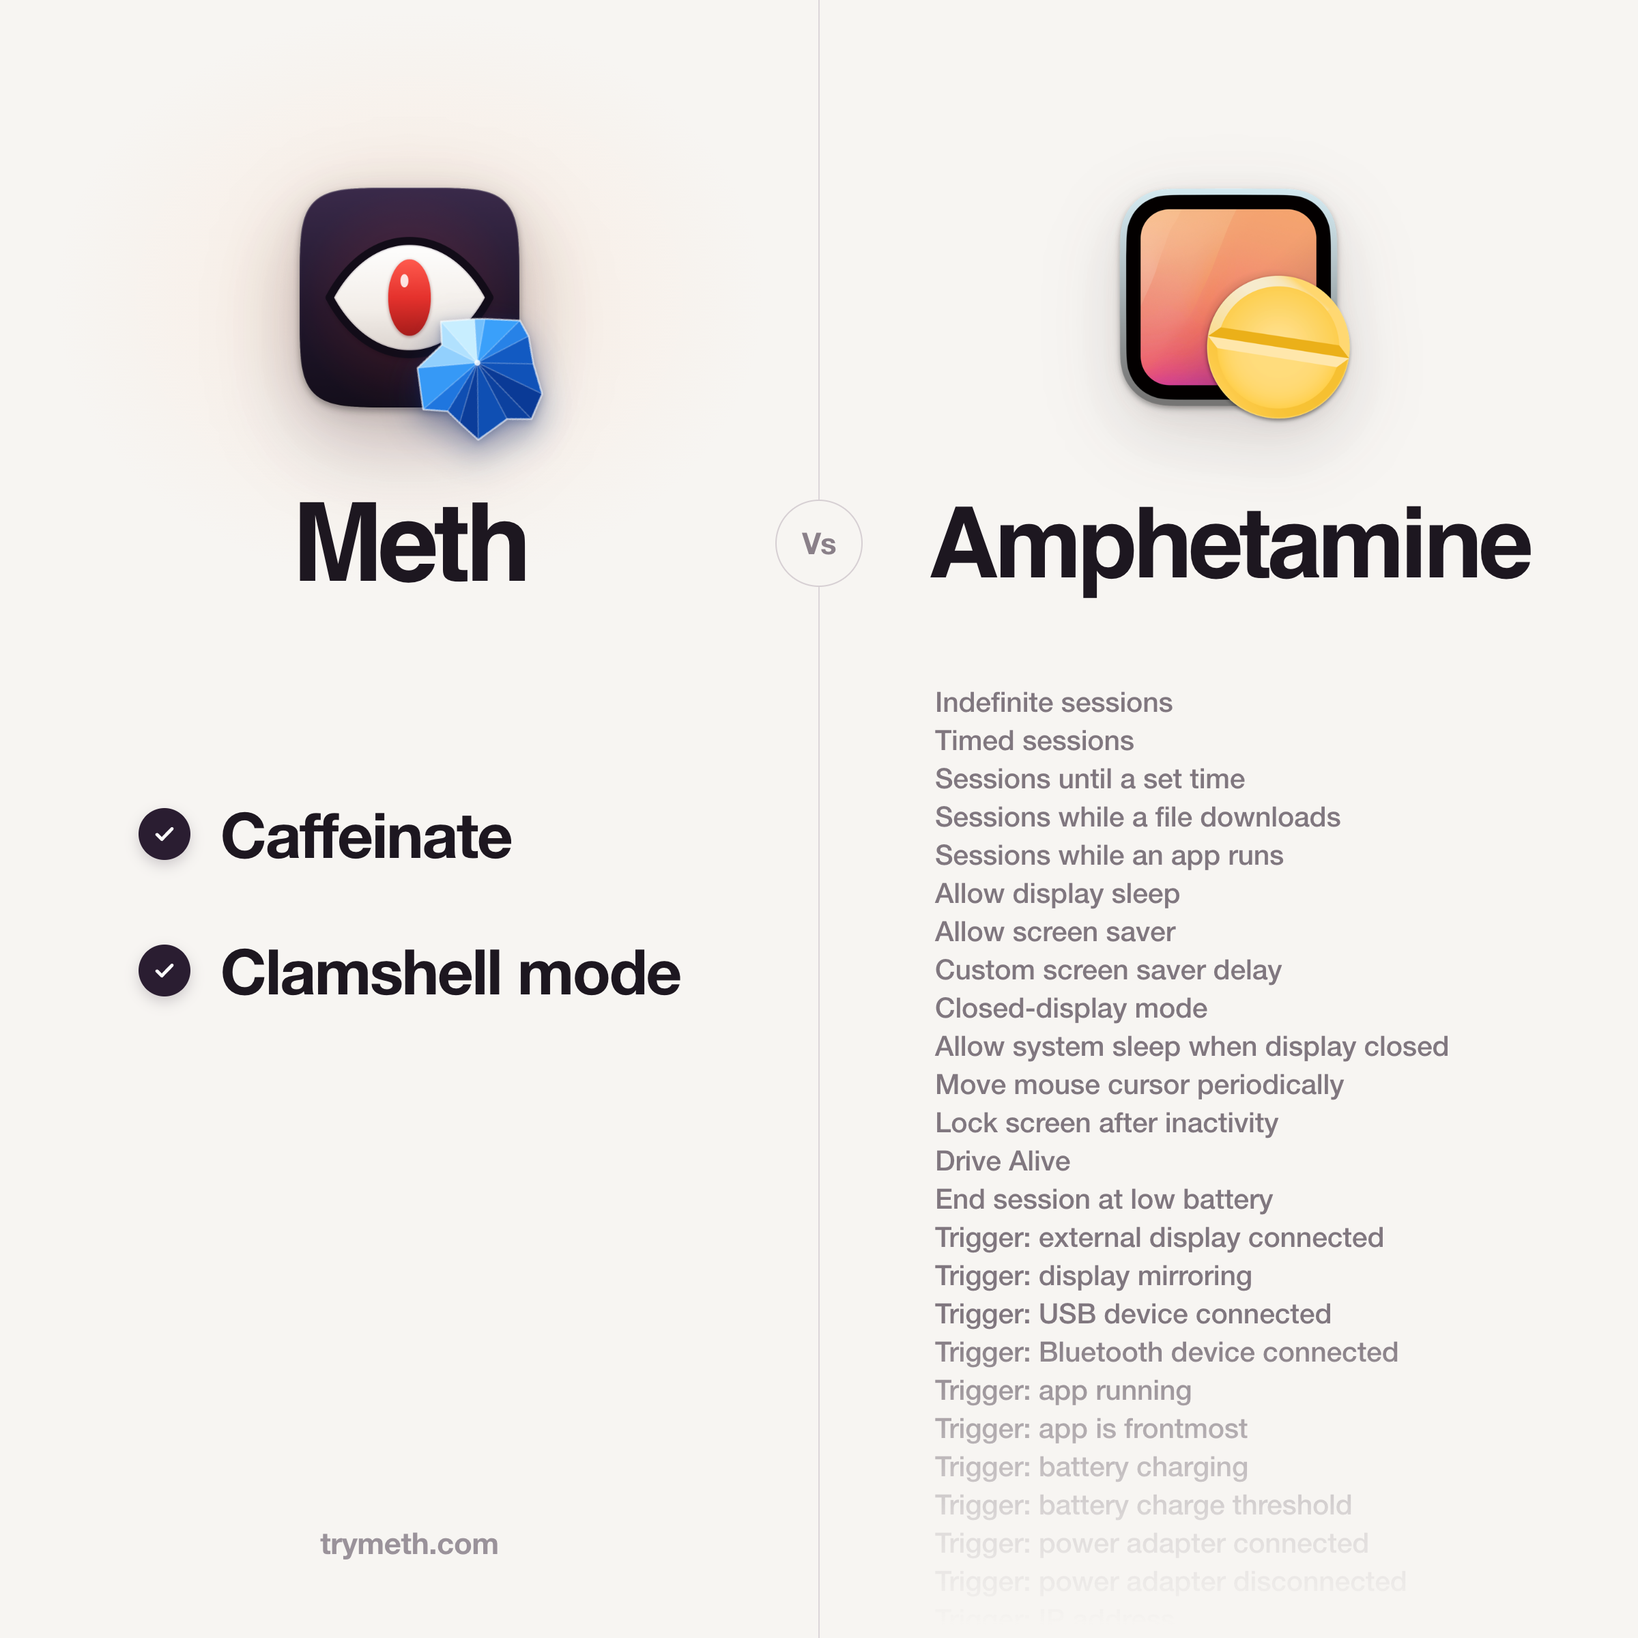
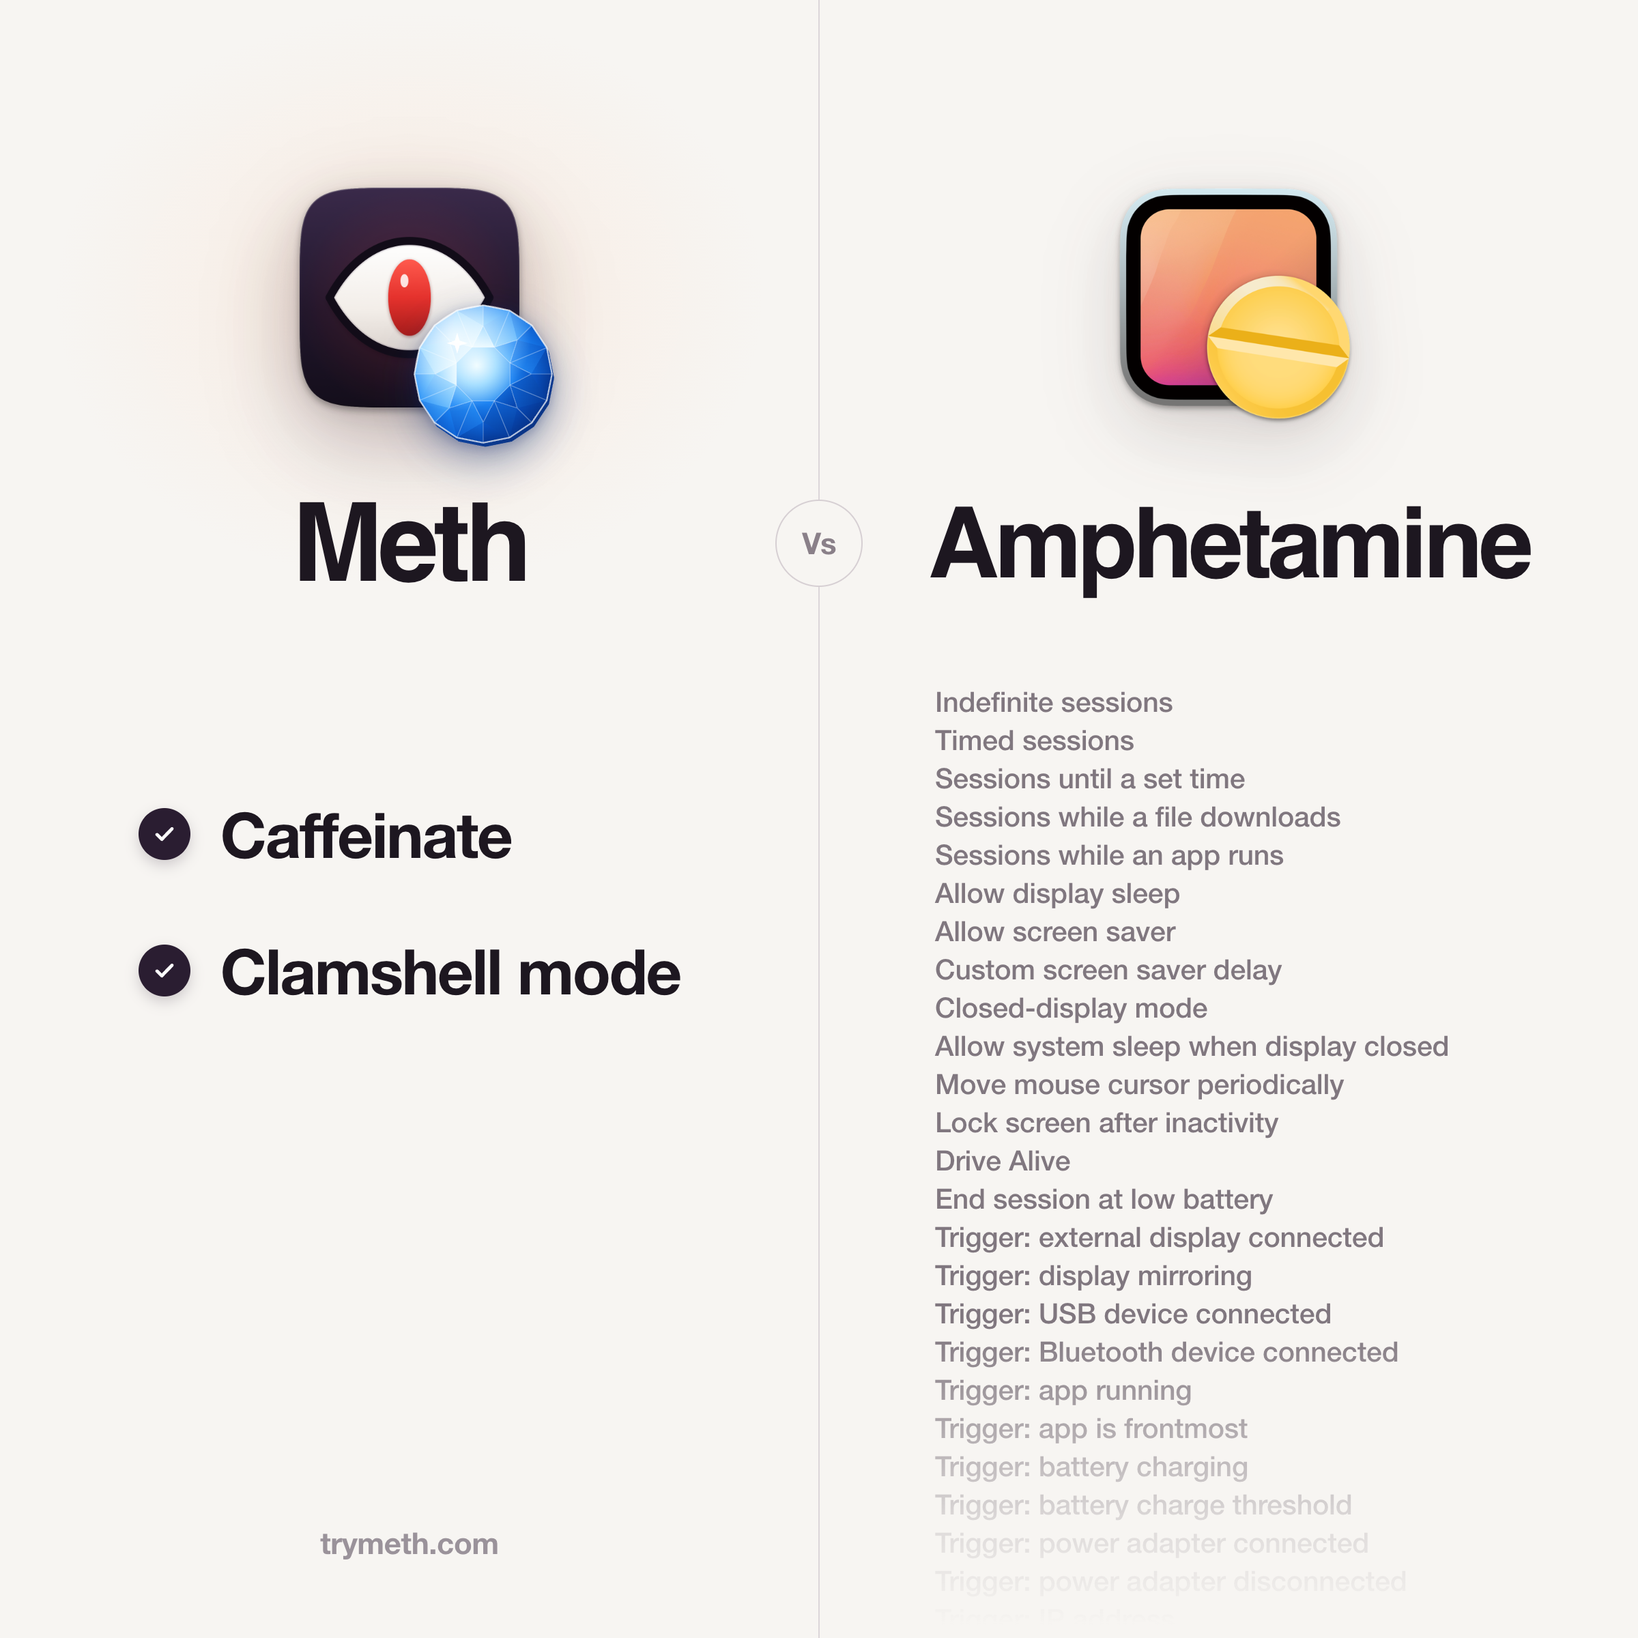
Replace the Meth crystal with a glossy brilliant-cut gem

Changed region(s): [[0.25, 0.1875, 0.3438, 0.2812]]

diff --git a/concepts/comparison.html b/concepts/comparison.html
@@ -10,7 +10,7 @@ body{font-family:-apple-system,"SF Pro Display","SF Pro Text","Helvetica Neue",A
 .glow{position:absolute;left:50%;top:218px;width:520px;height:420px;transform:translate(-50%,-50%);background:radial-gradient(closest-side,rgba(255,196,150,.34),rgba(255,210,180,.12) 55%,rgba(247,245,242,0));pointer-events:none}
 .icon{position:relative;width:200px;height:200px;display:block;margin:0 auto}
 .icon-wrap{position:relative;width:200px;height:200px;margin:0 auto}
-.crystal{position:absolute;right:-8px;bottom:-10px;width:108px;height:108px;transform:rotate(8deg);filter:drop-shadow(0 10px 12px rgba(10,40,110,.35)) drop-shadow(0 2px 3px rgba(10,40,110,.3))}
+.crystal{position:absolute;right:-10px;bottom:-12px;width:112px;height:112px;filter:drop-shadow(0 10px 14px rgba(8,40,110,.32)) drop-shadow(0 2px 4px rgba(8,40,110,.28))}
 .left .icon{filter:drop-shadow(0 22px 30px rgba(38,22,44,.26)) drop-shadow(0 4px 8px rgba(38,22,44,.12))}
 .right .icon{filter:drop-shadow(0 18px 26px rgba(60,40,40,.16)) drop-shadow(0 3px 6px rgba(60,40,40,.08))}
 .name{position:relative;font-family:-apple-system,"SF Pro Display",sans-serif;font-weight:790;letter-spacing:-.045em;font-size:80px;line-height:1;margin-top:40px}
@@ -30,10 +30,23 @@ body{font-family:-apple-system,"SF Pro Display","SF Pro Text","Helvetica Neue",A
   <div class="icon-wrap">
     <img class="icon" src="assets/meth-icon.png" alt="">
     <svg class="crystal" viewBox="0 0 100 100" aria-hidden="true">
-      <polygon points="45.0,43.0 46.0,12.8 69.6,10.6" fill="#3aa0fa"/><polygon points="45.0,43.0 69.6,10.6 76.9,20.3" fill="#2782e7"/><polygon points="45.0,43.0 76.9,20.3 82.8,38.5" fill="#125ac2"/><polygon points="45.0,43.0 82.8,38.5 91.5,57.8" fill="#1052b8"/><polygon points="45.0,43.0 91.5,57.8 86.7,75.7" fill="#0a3a96"/><polygon points="45.0,43.0 86.7,75.7 70.3,78.0" fill="#0c419f"/><polygon points="45.0,43.0 70.3,78.0 52.9,94.7" fill="#0f4fb3"/><polygon points="45.0,43.0 52.9,94.7 38.8,85.1" fill="#0b3d9a"/><polygon points="45.0,43.0 38.8,85.1 29.6,78.4" fill="#0f4eb2"/><polygon points="45.0,43.0 29.6,78.4 13.0,79.5" fill="#1f76df"/><polygon points="45.0,43.0 13.0,79.5 5.3,52.2" fill="#3699f6"/><polygon points="45.0,43.0 5.3,52.2 19.4,34.4" fill="#92d0fd"/><polygon points="45.0,43.0 19.4,34.4 16.6,18.7" fill="#b1e1fe"/><polygon points="45.0,43.0 16.6,18.7 39.0,13.8" fill="#c8eeff"/><polygon points="45.0,43.0 39.0,13.8 46.0,12.8" fill="#72bffc"/>
-      <path d="M45.0,43.0 L46.0,12.8 M45.0,43.0 L69.6,10.6 M45.0,43.0 L76.9,20.3 M45.0,43.0 L82.8,38.5 M45.0,43.0 L91.5,57.8 M45.0,43.0 L86.7,75.7 M45.0,43.0 L70.3,78.0 M45.0,43.0 L52.9,94.7 M45.0,43.0 L38.8,85.1 M45.0,43.0 L29.6,78.4 M45.0,43.0 L13.0,79.5 M45.0,43.0 L5.3,52.2 M45.0,43.0 L19.4,34.4 M45.0,43.0 L16.6,18.7 M45.0,43.0 L39.0,13.8" fill="none" stroke="rgba(255,255,255,.25)" stroke-width=".8"/>
-      <polygon points="46.0,12.8 69.6,10.6 76.9,20.3 82.8,38.5 91.5,57.8 86.7,75.7 70.3,78.0 52.9,94.7 38.8,85.1 29.6,78.4 13.0,79.5 5.3,52.2 19.4,34.4 16.6,18.7 39.0,13.8" fill="none" stroke="rgba(255,255,255,.6)" stroke-width="1.2" stroke-linejoin="round"/>
-      <circle cx="45" cy="43" r="2" fill="#fff" opacity=".8"/>
+      <defs>
+        <radialGradient id="tbl" cx=".38" cy=".34" r=".8"><stop offset="0" stop-color="#e9fbff"/><stop offset=".45" stop-color="#8fd6ff"/><stop offset="1" stop-color="#2a8cf2"/></radialGradient>
+        <linearGradient id="side" x1="0" y1="0" x2="1" y2="1"><stop offset="0" stop-color="#1c6ad8"/><stop offset="1" stop-color="#062a78"/></linearGradient>
+        <radialGradient id="gloss" cx=".3" cy=".22" r=".55"><stop offset="0" stop-color="#fff" stop-opacity=".75"/><stop offset="1" stop-color="#fff" stop-opacity="0"/></radialGradient>
+        <linearGradient id="g1" x1="0.31" y1="0.96" x2="0.69" y2="0.04"><stop offset="0" stop-color="#88d1ff"/><stop offset="1" stop-color="#3499f8"/></linearGradient><linearGradient id="g2" x1="0.50" y1="1.00" x2="0.50" y2="0.00"><stop offset="0" stop-color="#def6ff"/><stop offset="1" stop-color="#6bc5ff"/></linearGradient><linearGradient id="g3" x1="0.60" y1="0.99" x2="0.40" y2="0.01"><stop offset="0" stop-color="#99d9ff"/><stop offset="1" stop-color="#3da1fa"/></linearGradient><linearGradient id="g4" x1="0.40" y1="0.99" x2="0.60" y2="0.01"><stop offset="0" stop-color="#66c2ff"/><stop offset="1" stop-color="#218af6"/></linearGradient><linearGradient id="g5" x1="0.04" y1="0.69" x2="0.96" y2="0.31"><stop offset="0" stop-color="#258df6"/><stop offset="1" stop-color="#0d5ccd"/></linearGradient><linearGradient id="g6" x1="0.15" y1="0.85" x2="0.85" y2="0.15"><stop offset="0" stop-color="#66c3ff"/><stop offset="1" stop-color="#228af6"/></linearGradient><linearGradient id="g7" x1="0.22" y1="0.91" x2="0.78" y2="0.09"><stop offset="0" stop-color="#3fa2fa"/><stop offset="1" stop-color="#136edf"/></linearGradient><linearGradient id="g8" x1="0.09" y1="0.78" x2="0.91" y2="0.22"><stop offset="0" stop-color="#1982f3"/><stop offset="1" stop-color="#0a53c3"/></linearGradient><linearGradient id="g9" x1="0.04" y1="0.31" x2="0.96" y2="0.69"><stop offset="0" stop-color="#0f63d3"/><stop offset="1" stop-color="#063d9d"/></linearGradient><linearGradient id="g10" x1="0.00" y1="0.50" x2="1.00" y2="0.50"><stop offset="0" stop-color="#1f88f6"/><stop offset="1" stop-color="#0b58c8"/></linearGradient><linearGradient id="g11" x1="0.01" y1="0.60" x2="0.99" y2="0.40"><stop offset="0" stop-color="#1067d8"/><stop offset="1" stop-color="#0740a3"/></linearGradient><linearGradient id="g12" x1="0.01" y1="0.40" x2="0.99" y2="0.60"><stop offset="0" stop-color="#0a54c4"/><stop offset="1" stop-color="#05338b"/></linearGradient><linearGradient id="g13" x1="0.31" y1="0.04" x2="0.69" y2="0.96"><stop offset="0" stop-color="#0f63d3"/><stop offset="1" stop-color="#063d9d"/></linearGradient><linearGradient id="g14" x1="0.15" y1="0.15" x2="0.85" y2="0.85"><stop offset="0" stop-color="#1473e3"/><stop offset="1" stop-color="#0747b1"/></linearGradient><linearGradient id="g15" x1="0.09" y1="0.22" x2="0.91" y2="0.78"><stop offset="0" stop-color="#084bb8"/><stop offset="1" stop-color="#052c7d"/></linearGradient><linearGradient id="g16" x1="0.22" y1="0.09" x2="0.78" y2="0.91"><stop offset="0" stop-color="#084bb8"/><stop offset="1" stop-color="#052c7d"/></linearGradient><linearGradient id="g17" x1="0.69" y1="0.04" x2="0.31" y2="0.96"><stop offset="0" stop-color="#258df6"/><stop offset="1" stop-color="#0d5ccd"/></linearGradient><linearGradient id="g18" x1="0.50" y1="0.00" x2="0.50" y2="1.00"><stop offset="0" stop-color="#1f88f6"/><stop offset="1" stop-color="#0b58c8"/></linearGradient><linearGradient id="g19" x1="0.40" y1="0.01" x2="0.60" y2="0.99"><stop offset="0" stop-color="#0a54c4"/><stop offset="1" stop-color="#05338b"/></linearGradient><linearGradient id="g20" x1="0.60" y1="0.01" x2="0.40" y2="0.99"><stop offset="0" stop-color="#1067d8"/><stop offset="1" stop-color="#0740a3"/></linearGradient><linearGradient id="g21" x1="0.96" y1="0.31" x2="0.04" y2="0.69"><stop offset="0" stop-color="#88d1ff"/><stop offset="1" stop-color="#3499f8"/></linearGradient><linearGradient id="g22" x1="0.85" y1="0.15" x2="0.15" y2="0.85"><stop offset="0" stop-color="#66c3ff"/><stop offset="1" stop-color="#228af6"/></linearGradient><linearGradient id="g23" x1="0.78" y1="0.09" x2="0.22" y2="0.91"><stop offset="0" stop-color="#1982f3"/><stop offset="1" stop-color="#0a53c3"/></linearGradient><linearGradient id="g24" x1="0.91" y1="0.22" x2="0.09" y2="0.78"><stop offset="0" stop-color="#3fa2fa"/><stop offset="1" stop-color="#136edf"/></linearGradient><linearGradient id="g25" x1="0.96" y1="0.69" x2="0.04" y2="0.31"><stop offset="0" stop-color="#def6ff"/><stop offset="1" stop-color="#76caff"/></linearGradient><linearGradient id="g26" x1="1.00" y1="0.50" x2="0.00" y2="0.50"><stop offset="0" stop-color="#def6ff"/><stop offset="1" stop-color="#6bc5ff"/></linearGradient><linearGradient id="g27" x1="0.99" y1="0.40" x2="0.01" y2="0.60"><stop offset="0" stop-color="#66c2ff"/><stop offset="1" stop-color="#218af6"/></linearGradient><linearGradient id="g28" x1="0.99" y1="0.60" x2="0.01" y2="0.40"><stop offset="0" stop-color="#99d9ff"/><stop offset="1" stop-color="#3da1fa"/></linearGradient><linearGradient id="g29" x1="0.69" y1="0.96" x2="0.31" y2="0.04"><stop offset="0" stop-color="#def6ff"/><stop offset="1" stop-color="#76caff"/></linearGradient><linearGradient id="g30" x1="0.85" y1="0.85" x2="0.15" y2="0.15"><stop offset="0" stop-color="#def6ff"/><stop offset="1" stop-color="#a3ddff"/></linearGradient><linearGradient id="g31" x1="0.91" y1="0.78" x2="0.09" y2="0.22"><stop offset="0" stop-color="#b7e5ff"/><stop offset="1" stop-color="#4daefc"/></linearGradient><linearGradient id="g32" x1="0.78" y1="0.91" x2="0.22" y2="0.09"><stop offset="0" stop-color="#b7e5ff"/><stop offset="1" stop-color="#4daefc"/></linearGradient>
+      </defs>
+      <polygon points="51.40,7.60 68.62,11.03 83.22,20.78 92.97,35.38 96.40,52.60 92.97,69.82 83.22,84.42 68.62,94.17 51.40,97.60 34.18,94.17 19.58,84.42 9.83,69.82 6.40,52.60 9.83,35.38 19.58,20.78 34.18,11.03" fill="url(#side)"/>
+      <polygon points="57.27,32.45 50.00,18.50 67.22,8.43 72.27,27.73" fill="url(#g1)"/><polygon points="42.73,32.45 57.27,32.45 50.00,18.50" fill="url(#g2)"/><polygon points="50.00,18.50 32.78,8.43 50.00,5.00" fill="url(#g3)"/><polygon points="50.00,18.50 50.00,5.00 67.22,8.43" fill="url(#g4)"/><polygon points="67.55,42.73 72.27,27.73 91.57,32.78 81.50,50.00" fill="url(#g5)"/><polygon points="57.27,32.45 67.55,42.73 72.27,27.73" fill="url(#g6)"/><polygon points="72.27,27.73 67.22,8.43 81.82,18.18" fill="url(#g7)"/><polygon points="72.27,27.73 81.82,18.18 91.57,32.78" fill="url(#g8)"/><polygon points="67.55,57.27 81.50,50.00 91.57,67.22 72.27,72.27" fill="url(#g9)"/><polygon points="67.55,42.73 67.55,57.27 81.50,50.00" fill="url(#g10)"/><polygon points="81.50,50.00 91.57,32.78 95.00,50.00" fill="url(#g11)"/><polygon points="81.50,50.00 95.00,50.00 91.57,67.22" fill="url(#g12)"/><polygon points="57.27,67.55 72.27,72.27 67.22,91.57 50.00,81.50" fill="url(#g13)"/><polygon points="67.55,57.27 57.27,67.55 72.27,72.27" fill="url(#g14)"/><polygon points="72.27,72.27 91.57,67.22 81.82,81.82" fill="url(#g15)"/><polygon points="72.27,72.27 81.82,81.82 67.22,91.57" fill="url(#g16)"/><polygon points="42.73,67.55 50.00,81.50 32.78,91.57 27.73,72.27" fill="url(#g17)"/><polygon points="57.27,67.55 42.73,67.55 50.00,81.50" fill="url(#g18)"/><polygon points="50.00,81.50 67.22,91.57 50.00,95.00" fill="url(#g19)"/><polygon points="50.00,81.50 50.00,95.00 32.78,91.57" fill="url(#g20)"/><polygon points="32.45,57.27 27.73,72.27 8.43,67.22 18.50,50.00" fill="url(#g21)"/><polygon points="42.73,67.55 32.45,57.27 27.73,72.27" fill="url(#g22)"/><polygon points="27.73,72.27 32.78,91.57 18.18,81.82" fill="url(#g23)"/><polygon points="27.73,72.27 18.18,81.82 8.43,67.22" fill="url(#g24)"/><polygon points="32.45,42.73 18.50,50.00 8.43,32.78 27.73,27.73" fill="url(#g25)"/><polygon points="32.45,57.27 32.45,42.73 18.50,50.00" fill="url(#g26)"/><polygon points="18.50,50.00 8.43,67.22 5.00,50.00" fill="url(#g27)"/><polygon points="18.50,50.00 5.00,50.00 8.43,32.78" fill="url(#g28)"/><polygon points="42.73,32.45 27.73,27.73 32.78,8.43 50.00,18.50" fill="url(#g29)"/><polygon points="32.45,42.73 42.73,32.45 27.73,27.73" fill="url(#g30)"/><polygon points="27.73,27.73 8.43,32.78 18.18,18.18" fill="url(#g31)"/><polygon points="27.73,27.73 18.18,18.18 32.78,8.43" fill="url(#g32)"/>
+      <polygon points="57.27,32.45 67.55,42.73 67.55,57.27 57.27,67.55 42.73,67.55 32.45,57.27 32.45,42.73 42.73,32.45" fill="url(#tbl)"/>
+      <g fill="none" stroke="rgba(255,255,255,.35)" stroke-width=".55" stroke-linejoin="round">
+        <polygon points="57.27,32.45 67.55,42.73 67.55,57.27 57.27,67.55 42.73,67.55 32.45,57.27 32.45,42.73 42.73,32.45"/>
+        <path d="M57.27,32.45 L50.00,18.50 L42.73,32.45 M50.00,18.50 L50.00,5.00"/><path d="M67.55,42.73 L72.27,27.73 L57.27,32.45 M72.27,27.73 L81.82,18.18"/><path d="M67.55,57.27 L81.50,50.00 L67.55,42.73 M81.50,50.00 L95.00,50.00"/><path d="M57.27,67.55 L72.27,72.27 L67.55,57.27 M72.27,72.27 L81.82,81.82"/><path d="M42.73,67.55 L50.00,81.50 L57.27,67.55 M50.00,81.50 L50.00,95.00"/><path d="M32.45,57.27 L27.73,72.27 L42.73,67.55 M27.73,72.27 L18.18,81.82"/><path d="M32.45,42.73 L18.50,50.00 L32.45,57.27 M18.50,50.00 L5.00,50.00"/><path d="M42.73,32.45 L27.73,27.73 L32.45,42.73 M27.73,27.73 L18.18,18.18"/>
+        <path d="M57.27,32.45 L67.22,8.43"/><path d="M67.55,42.73 L91.57,32.78"/><path d="M67.55,57.27 L91.57,67.22"/><path d="M57.27,67.55 L67.22,91.57"/><path d="M42.73,67.55 L32.78,91.57"/><path d="M32.45,57.27 L8.43,67.22"/><path d="M32.45,42.73 L8.43,32.78"/><path d="M42.73,32.45 L32.78,8.43"/>
+      </g>
+      <polygon points="50.00,5.00 67.22,8.43 81.82,18.18 91.57,32.78 95.00,50.00 91.57,67.22 81.82,81.82 67.22,91.57 50.00,95.00 32.78,91.57 18.18,81.82 8.43,67.22 5.00,50.00 8.43,32.78 18.18,18.18 32.78,8.43" fill="none" stroke="rgba(255,255,255,.7)" stroke-width="1" stroke-linejoin="round"/>
+      <circle cx="50" cy="50" r="45" fill="url(#gloss)"/>
+      <path d="M33 23 l1.6 5.2 5.2 1.6 -5.2 1.6 -1.6 5.2 -1.6 -5.2 -5.2 -1.6 5.2 -1.6z" fill="#fff" opacity=".95"/>
     </svg>
   </div>
   <div class="name">Meth</div>

diff --git a/concepts/gem.py b/concepts/gem.py
@@ -1,0 +1,86 @@
+# Generates the round brilliant-cut blue gem used as the Meth icon's badge in comparison.html.
+# Top view: octagonal table, 8 star facets, 8 kite (bezel) facets, 16 upper-girdle facets,
+# lit from the top left with smooth per-facet gradients, a gloss highlight and a sparkle.
+import math, re, sys
+
+C = (50, 50)
+R_GIRDLE, R_STAR, R_TABLE = 45, 31.5, 19
+LIGHT = math.radians(225)  # light comes from the top left (SVG y points down)
+
+def pt(r, deg):
+    a = math.radians(deg - 90)
+    return (C[0] + r * math.cos(a), C[1] + r * math.sin(a))
+
+def mix(c0, c1, t):
+    return tuple(round(a + (b - a) * t) for a, b in zip(c0, c1))
+
+PAL = [(0.0, (4, 36, 110)), (0.3, (8, 78, 190)), (0.55, (26, 132, 245)), (0.8, (104, 196, 255)), (1.0, (222, 246, 255))]
+def tone(t):
+    t = max(0, min(1, t))
+    for (t0, c0), (t1, c1) in zip(PAL, PAL[1:]):
+        if t <= t1:
+            return '#%02x%02x%02x' % mix(c0, c1, (t - t0) / (t1 - t0))
+    return '#def6ff'
+
+def facing(deg, bias=0):
+    # 1 when the facet faces the light, 0 when it faces away.
+    a = math.radians(deg - 90)
+    return (math.cos(a - LIGHT) + 1) / 2 + bias
+
+f = lambda p: f'{p[0]:.2f},{p[1]:.2f}'
+defs, shapes, n = [], [], [0]
+
+def facet(points, deg, lo, hi):
+    # Each facet gets its own gradient running across it, brighter on the lit side.
+    n[0] += 1
+    gid = f'g{n[0]}'
+    a = math.radians(deg - 90)
+    x1, y1 = 0.5 + 0.5 * math.cos(a + math.pi), 0.5 + 0.5 * math.sin(a + math.pi)
+    x2, y2 = 0.5 + 0.5 * math.cos(a), 0.5 + 0.5 * math.sin(a)
+    t = facing(deg)
+    defs.append(f'<linearGradient id="{gid}" x1="{x1:.2f}" y1="{y1:.2f}" x2="{x2:.2f}" y2="{y2:.2f}">'
+                f'<stop offset="0" stop-color="{tone(lo + (hi - lo) * t + .12)}"/>'
+                f'<stop offset="1" stop-color="{tone(lo + (hi - lo) * t - .1)}"/></linearGradient>')
+    shapes.append(f'<polygon points="{" ".join(f(p) for p in points)}" fill="url(#{gid})"/>')
+
+table = [pt(R_TABLE, 22.5 + 45 * k) for k in range(8)]
+stars = [pt(R_STAR, 45 * k) for k in range(8)]           # star points sit between table corners
+
+for k in range(8):
+    # Kite (bezel) facet around each table corner.
+    tc = table[k]
+    deg = 22.5 + 45 * k
+    kite = [tc, stars[k], pt(R_GIRDLE, deg), stars[(k + 1) % 8]]
+    facet(kite, deg, .25, .95)
+    # Star facet between two table corners.
+    facet([table[k - 1], table[k], stars[k]], 45 * k, .35, 1.0)
+    # Two upper-girdle facets fill the rim between neighbouring kites, meeting at this star point.
+    facet([stars[k], pt(R_GIRDLE, 45 * k - 22.5), pt(R_GIRDLE, 45 * k)], 45 * k - 11, .15, .82)
+    facet([stars[k], pt(R_GIRDLE, 45 * k), pt(R_GIRDLE, 45 * k + 22.5)], 45 * k + 11, .15, .82)
+
+outline = [pt(R_GIRDLE, 22.5 * k) for k in range(16)]
+svg = f'''<svg class="crystal" viewBox="0 0 100 100" aria-hidden="true">
+      <defs>
+        <radialGradient id="tbl" cx=".38" cy=".34" r=".8"><stop offset="0" stop-color="#e9fbff"/><stop offset=".45" stop-color="#8fd6ff"/><stop offset="1" stop-color="#2a8cf2"/></radialGradient>
+        <linearGradient id="side" x1="0" y1="0" x2="1" y2="1"><stop offset="0" stop-color="#1c6ad8"/><stop offset="1" stop-color="#062a78"/></linearGradient>
+        <radialGradient id="gloss" cx=".3" cy=".22" r=".55"><stop offset="0" stop-color="#fff" stop-opacity=".75"/><stop offset="1" stop-color="#fff" stop-opacity="0"/></radialGradient>
+        {''.join(defs)}
+      </defs>
+      <polygon points="{' '.join(f((x + 1.4, y + 2.6)) for x, y in outline)}" fill="url(#side)"/>
+      {''.join(shapes)}
+      <polygon points="{' '.join(f(p) for p in table)}" fill="url(#tbl)"/>
+      <g fill="none" stroke="rgba(255,255,255,.35)" stroke-width=".55" stroke-linejoin="round">
+        <polygon points="{' '.join(f(p) for p in table)}"/>
+        {''.join(f'<path d="M{f(table[k])} L{f(stars[k])} L{f(table[k-1])} M{f(stars[k])} L{f(pt(R_GIRDLE, 45*k))}"/>' for k in range(8))}
+        {''.join(f'<path d="M{f(table[k])} L{f(pt(R_GIRDLE, 22.5 + 45*k))}"/>' for k in range(8))}
+      </g>
+      <polygon points="{' '.join(f(p) for p in outline)}" fill="none" stroke="rgba(255,255,255,.7)" stroke-width="1" stroke-linejoin="round"/>
+      <circle cx="50" cy="50" r="{R_GIRDLE}" fill="url(#gloss)"/>
+      <path d="M33 23 l1.6 5.2 5.2 1.6 -5.2 1.6 -1.6 5.2 -1.6 -5.2 -5.2 -1.6 5.2 -1.6z" fill="#fff" opacity=".95"/>
+    </svg>'''
+
+html = open('comparison.html').read()
+i = html.index('<svg class="crystal"'); j = html.index('</svg>', i) + len('</svg>')
+html = html[:i] + svg + html[j:]
+html = re.sub(r'\.crystal\{[^}]*\}', '.crystal{position:absolute;right:-10px;bottom:-12px;width:112px;height:112px;filter:drop-shadow(0 10px 14px rgba(8,40,110,.32)) drop-shadow(0 2px 4px rgba(8,40,110,.28))}', html)
+open('comparison.html', 'w').write(html)
